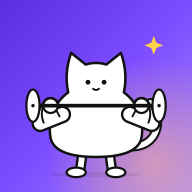
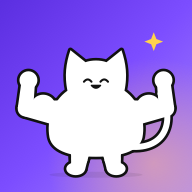
Buddy: one merged silhouette with chunky tapered limbs; per-exercise facial expressions

Changed region(s): [[0.0625, 0.25, 0.9375, 0.9375], [0.75, 0.1562, 0.8438, 0.2812], [0.4375, 0.4062, 0.5625, 0.4688]]

diff --git a/art.js b/art.js
@@ -107,110 +107,129 @@
      m = muscle power (this week's lifts / goal), j = leg power (this week's jog minutes / goal); 0 … 1 … 1.25.
      Arms thicken + biceps bulge with m; legs, sneakers, headband, sweat and speed lines grow with j; gold adds a crown. */
   const clamp = (v) => Math.max(0, Math.min(1.25, v || 0));
-  const bStyle = (m, j) => { const k = clamp(m), q = clamp(j); return { w: 11 + k * 11, b: 0.15 + k * 1.05, f: 0.8 + k * 0.35, k, lw: 8 + q * 7, sn: 0.7 + q * 0.45, q }; };
+  const bStyle = (m, j) => { const k = clamp(m), q = clamp(j); return { k, q }; };
   // Animated poses. Each pose loops between frame A and frame B (SMIL, so it runs on iOS too).
-  // Arms: [shoulder, elbow, hand]; legs: [hip, knee, foot]; dy = how far the body moves down in frame B.
-  const STAND = { l: [[92, 176], [90, 192], [88, 206]], r: [[128, 176], [130, 192], [132, 206]] };
+  // Arms: [shoulder, elbow, paw]; legs: [hip, knee, foot]; dy = how far the body moves in frame B.
+  const STAND = { l: [[90, 170], [88, 188], [86, 202]], r: [[130, 170], [132, 188], [134, 202]] };
   const FR = (a, b = a) => [a, b];
   const mirror = (a) => a.map(([x, y]) => [220 - x, y]);
   const POSES = {
-    nap: { dur: 3.4, l: FR([[62, 134], [50, 156], [80, 160]]), r: 'mirror' },
-    press: { dur: 1.9, bar: true, l: FR([[64, 128], [34, 140], [48, 116]], [[64, 124], [40, 86], [46, 40]]), r: 'mirror' },
-    curl: { dur: 1.5, db: true, l: FR([[62, 126], [50, 152], [52, 178]], [[62, 126], [50, 152], [64, 124]]), r: 'mirror' },
-    squat: { dur: 2.1, bar: true, behind: true, dy: 16, l: FR([[64, 122], [32, 112], [40, 92]]), r: 'mirror',
-      legs: { l: FR(STAND.l, [[92, 192], [62, 196], [84, 206]]), r: FR(STAND.r, [[128, 192], [158, 196], [136, 206]]) } },
-    flex: { dur: 1.2, l: FR([[62, 130], [14, 124], [18, 86]], [[62, 128], [10, 116], [24, 80]]), r: 'mirror' },
-    victory: { dur: 0.9, l: FR([[66, 118], [40, 86], [28, 54]], [[66, 118], [44, 82], [38, 48]]), r: 'mirror' },
-    wave: { dur: 0.8, l: FR([[62, 130], [14, 124], [18, 86]]), r: FR([[158, 122], [190, 104], [198, 70]], [[158, 122], [192, 100], [214, 76]]) },
-    run: { dur: 0.6, run: 1, dy: -6, l: FR([[64, 128], [40, 146], [28, 124]], [[64, 128], [46, 156], [30, 164]]), r: FR([[156, 128], [176, 156], [190, 164]], [[156, 128], [180, 146], [192, 124]]),
-      legs: { l: FR([[96, 176], [80, 192], [68, 204]], [[96, 170], [106, 190], [116, 204]]), r: FR([[124, 176], [136, 192], [148, 204]], [[124, 170], [114, 190], [104, 204]]) } },
-    jumprope: { dur: 0.8, rope: true, dy: -20, l: FR([[64, 130], [46, 150], [36, 150]]), r: 'mirror',
-      legs: { l: FR(STAND.l, [[92, 156], [84, 172], [92, 186]]), r: FR(STAND.r, [[128, 156], [136, 172], [128, 186]]) } },
+    nap: { dur: 3.4, l: FR([[62, 136], [50, 158], [52, 176]]), r: 'mirror' },
+    press: { dur: 1.9, bar: true, l: FR([[62, 126], [30, 140], [40, 112]], [[64, 120], [38, 84], [44, 40]]), r: 'mirror' },
+    curl: { dur: 1.5, db: true, l: FR([[62, 128], [40, 154], [38, 180]], [[62, 128], [36, 152], [40, 120]]), r: 'mirror' },
+    squat: { dur: 2.1, bar: true, behind: true, dy: 16, l: FR([[62, 120], [30, 112], [38, 90]]), r: 'mirror',
+      legs: { l: FR(STAND.l, [[90, 186], [64, 192], [82, 202]]), r: FR(STAND.r, [[130, 186], [156, 192], [138, 202]]) } },
+    flex: { dur: 1.2, l: FR([[62, 128], [16, 122], [20, 84]], [[62, 126], [12, 114], [26, 78]]), r: 'mirror' },
+    victory: { dur: 0.9, l: FR([[66, 116], [40, 84], [30, 50]], [[66, 116], [44, 80], [40, 46]]), r: 'mirror' },
+    wave: { dur: 0.8, l: FR([[62, 132], [40, 156], [40, 178]]), r: FR([[158, 120], [190, 102], [198, 66]], [[158, 120], [192, 98], [214, 72]]) },
+    run: { dur: 0.6, run: 1, dy: -6, l: FR([[62, 128], [36, 144], [28, 122]], [[62, 128], [42, 156], [30, 168]]), r: FR([[158, 128], [178, 156], [190, 168]], [[158, 128], [184, 144], [192, 122]]),
+      legs: { l: FR([[96, 170], [80, 188], [68, 200]], [[96, 166], [106, 186], [116, 200]]), r: FR([[124, 170], [136, 188], [150, 200]], [[124, 166], [114, 186], [104, 200]]) } },
+    jumprope: { dur: 0.8, rope: true, dy: -20, l: FR([[62, 132], [40, 150], [32, 150]]), r: 'mirror',
+      legs: { l: FR(STAND.l, [[90, 150], [84, 166], [90, 180]]), r: FR(STAND.r, [[130, 150], [136, 166], [130, 180]]) } },
   };
   A.POSES = Object.keys(POSES);
-  const pt = (p) => `${p[0]} ${p[1]}`;
+  const pt = (p) => `${p[0].toFixed(1)} ${p[1].toFixed(1)}`;
   const SPL = 'keyTimes="0;.5;1" calcMode="spline" keySplines=".45 0 .55 1;.45 0 .55 1" repeatCount="indefinite"';
   const still = typeof matchMedia === 'function' && matchMedia('(prefers-reduced-motion: reduce)').matches;
   /** <animate> between two values (nothing if they match or motion is reduced). */
   const anim = (attr, a, b, dur) => (still || a === b ? '' : `<animate attributeName="${attr}" values="${a};${b};${a}" dur="${dur}s" ${SPL}/>`);
   const animT = (type, a, b, dur) => (still || a === b ? '' : `<animateTransform attributeName="transform" type="${type}" values="${a};${b};${a}" dur="${dur}s" ${SPL}/>`);
-  const bic = ([S, E, H]) => {
+  /** Tapered limb segment a→b (width wa → wb) as a closed quad. */
+  const seg = (a, b, wa, wb) => {
+    const dx = b[0] - a[0], dy = b[1] - a[1], l = Math.hypot(dx, dy) || 1, nx = -dy / l, ny = dx / l;
+    return `M${pt([a[0] + nx * wa / 2, a[1] + ny * wa / 2])} L${pt([b[0] + nx * wb / 2, b[1] + ny * wb / 2])} L${pt([b[0] - nx * wb / 2, b[1] - ny * wb / 2])} L${pt([a[0] - nx * wa / 2, a[1] - ny * wa / 2])} Z`;
+  };
+  /** Bicep bulge on the upper arm, on the inside of the elbow bend (or upward when the arm is straight). */
+  const bic = ([S, E, H], wS, wE) => {
     const mx = (S[0] + E[0]) / 2, my = (S[1] + E[1]) / 2, len = Math.hypot(E[0] - S[0], E[1] - S[1]);
     let ang = (Math.atan2(E[1] - S[1], E[0] - S[0]) * 180) / Math.PI;
     const cross = (E[0] - S[0]) * (H[1] - S[1]) - (E[1] - S[1]) * (H[0] - S[0]);
     const up = Math.abs(cross) < 200 ? (Math.cos((ang * Math.PI) / 180) >= 0 ? 1 : -1) : -Math.sign(cross);
     if (up < 0) ang += 180;
-    return { mx, my, ang, hl: len * 0.36 };
+    return { mx, my, ang, rx: len * 0.34, off: (wS + wE) / 4 * 0.55 };
   };
   A.buddy = ({ m = 0, j = 0, gold = false, size = 160, pose = 'flex' } = {}) => {
     const st = bStyle(m, j), k = st.k, q = st.q, P0 = POSES[pose] || POSES.flex, D = P0.dur;
     const arms = { l: P0.l, r: P0.r === 'mirror' ? P0.l.map(mirror) : P0.r };
     const legs = P0.legs || { l: FR(STAND.l), r: FR(STAND.r) };
-    const d3 = (f) => `M${pt(f[0])} L${pt(f[1])} L${pt(f[2])}`;
-    const arm = (side, [A0, B0]) => {
-      const a = bic(A0), b = bic(B0);
+    // chunky, tapered limbs: thicker with muscle (arms) and leg power (legs)
+    const wS = 26 + k * 12, wE = 17 + k * 5, wH = 15 + k * 4, pr = wH / 2 + 3;
+    const wHip = 30 + q * 6, wKn = 22 + q * 5, wFt = 19 + q * 4;
+    const by = 2 + k * 11; // bicep bulge height
+    // every limb as a list of shapes; drawn twice (outline layer, then white fill layer) so they merge into one silhouette
+    const armShapes = ([A0, B0]) => {
+      const a = bic(A0, wS, wE), b = bic(B0, wS, wE);
       let bAng = b.ang; while (bAng - a.ang > 180) bAng -= 360; while (a.ang - bAng > 180) bAng += 360;
-      const R = 21, hl = a.hl;
-      const path = (cls, stroke, w) => `<path class="${cls}" d="${d3(A0)}" stroke="${stroke}" style="stroke-width:${w}px" fill="none" stroke-linecap="round" stroke-linejoin="round">${anim('d', d3(A0), d3(B0), D)}</path>`;
-      return `<g class="bd-armg ${side}">${path('bd-arm o', OUT, st.w + 6.5)}${path('bd-arm', '#fff', st.w)}
-        <g transform="translate(${a.mx} ${a.my})">${animT('translate', `${a.mx} ${a.my}`, `${b.mx} ${b.my}`, D)}<g transform="rotate(${a.ang.toFixed(1)})">${animT('rotate', a.ang.toFixed(1), bAng.toFixed(1), D)}
-          <g class="bd-bi" style="transform:scale(${st.b})"><path d="M${-hl} 1 A${hl} ${R} 0 0 1 ${hl} 1 Z" fill="#fff"/><path d="M${-hl} 1 A${hl} ${R} 0 0 1 ${hl} 1" stroke="${OUT}" stroke-width="2.6" fill="none" stroke-linecap="round"/></g></g></g>
-        <circle class="bd-fist" cx="${A0[2][0]}" cy="${A0[2][1]}" r="10" fill="#fff" stroke="${OUT}" stroke-width="3" style="transform:scale(${st.f})">${anim('cx', A0[2][0], B0[2][0], D)}${anim('cy', A0[2][1], B0[2][1], D)}</circle>
-      </g>`;
+      return (attrs) => `<path d="${seg(A0[0], A0[1], wS, wE)}" ${attrs}>${anim('d', seg(A0[0], A0[1], wS, wE), seg(B0[0], B0[1], wS, wE), D)}</path>
+        <path d="${seg(A0[1], A0[2], wE, wH)}" ${attrs}>${anim('d', seg(A0[1], A0[2], wE, wH), seg(B0[1], B0[2], wE, wH), D)}</path>
+        <circle cx="${A0[1][0]}" cy="${A0[1][1]}" r="${wE / 2}" ${attrs}>${anim('cx', A0[1][0], B0[1][0], D)}${anim('cy', A0[1][1], B0[1][1], D)}</circle>
+        <circle cx="${A0[2][0]}" cy="${A0[2][1]}" r="${pr}" ${attrs}>${anim('cx', A0[2][0], B0[2][0], D)}${anim('cy', A0[2][1], B0[2][1], D)}</circle>
+        <g transform="translate(${a.mx.toFixed(1)} ${a.my.toFixed(1)})">${animT('translate', `${a.mx.toFixed(1)} ${a.my.toFixed(1)}`, `${b.mx.toFixed(1)} ${b.my.toFixed(1)}`, D)}<g transform="rotate(${a.ang.toFixed(1)})">${animT('rotate', a.ang.toFixed(1), bAng.toFixed(1), D)}
+          <ellipse cx="0" cy="${(-a.off).toFixed(1)}" rx="${a.rx.toFixed(1)}" ry="${(a.off * 0.6 + by).toFixed(1)}" ${attrs}/></g></g>`;
     };
-    const leg = ([A0, B0], dir) => `<g class="bd-leg">
-        <path class="bd-lg o" d="${d3(A0)}" stroke="${OUT}" style="stroke-width:${st.lw + 6.5}px" stroke-linecap="round" stroke-linejoin="round" fill="none">${anim('d', d3(A0), d3(B0), D)}</path>
-        <path class="bd-lg" d="${d3(A0)}" stroke="#fff" style="stroke-width:${st.lw}px" stroke-linecap="round" stroke-linejoin="round" fill="none">${anim('d', d3(A0), d3(B0), D)}</path>
-        <g class="bd-shoe" style="transform:scale(${st.sn});opacity:${q > 0 ? 1 : 0}"><ellipse cx="${A0[2][0] + dir * 5}" cy="${A0[2][1] + 1}" rx="13" ry="6.5" fill="#fff" stroke="${OUT}" stroke-width="3">${anim('cx', A0[2][0] + dir * 5, B0[2][0] + dir * 5, D)}${anim('cy', A0[2][1] + 1, B0[2][1] + 1, D)}</ellipse>
-          <path class="bd-wing" d="M0 0 q${-dir * 14} -12 ${-dir * 20} -4 q${dir * 6} 2 ${dir * 4} 6 q${-dir * 8} 0 ${-dir * 12} 4 q${dir * 10} 4 ${dir * 16} 0z" transform="translate(${A0[2][0] - dir * 8} ${A0[2][1] - 2})" fill="#fff" stroke="${OUT}" stroke-width="2" style="opacity:${q >= 1 ? 1 : 0}">${animT('translate', `${A0[2][0] - dir * 8} ${A0[2][1] - 2}`, `${B0[2][0] - dir * 8} ${B0[2][1] - 2}`, D)}</path></g></g>`;
+    const legShapes = ([A0, B0], dir) => (attrs) => `<path d="${seg(A0[0], A0[1], wHip, wKn)}" ${attrs}>${anim('d', seg(A0[0], A0[1], wHip, wKn), seg(B0[0], B0[1], wHip, wKn), D)}</path>
+        <path d="${seg(A0[1], A0[2], wKn, wFt)}" ${attrs}>${anim('d', seg(A0[1], A0[2], wKn, wFt), seg(B0[1], B0[2], wKn, wFt), D)}</path>
+        <circle cx="${A0[1][0]}" cy="${A0[1][1]}" r="${wKn / 2}" ${attrs}>${anim('cx', A0[1][0], B0[1][0], D)}${anim('cy', A0[1][1], B0[1][1], D)}</circle>
+        <ellipse cx="${A0[2][0] + dir * 3}" cy="${A0[2][1]}" rx="${wFt / 2 + 3}" ry="${wFt / 2 - 1}" ${attrs}>${anim('cx', A0[2][0] + dir * 3, B0[2][0] + dir * 3, D)}${anim('cy', A0[2][1], B0[2][1], D)}</ellipse>`;
+    const TAIL = 'M150 172 C204 180 216 136 196 102';
     const run = P0.run || 0, dy = P0.dy || 0;
-    const speed = run ? `<g class="bd-speed">${[0, 1, 2].map((i) => `<path d="M${8 - i * 4} ${104 + i * 16} h26" stroke="${INK}" stroke-width="4" stroke-linecap="round" style="opacity:${q > i * 0.4 ? 1 : 0}"/>`).join('')}</g>` : '';
+    const body = (attrs, tailW, tailC) => `<path d="${TAIL}" stroke="${tailC}" stroke-width="${tailW}" fill="none" stroke-linecap="round"/>${armShapes(arms.l)(attrs)}${armShapes(arms.r)(attrs)}<path d="${BODY}" ${attrs}/>`;
+    const OUTL = `fill="${OUT}" stroke="${OUT}" stroke-width="7" stroke-linejoin="round"`, FILL = 'fill="#fff"';
+    const legsL = legShapes(legs.l, -1), legsR = legShapes(legs.r, 1);
+    const moveBody = animT('translate', '0 0', `0 ${dy}`, D);
+    const speed = run ? `<g class="bd-speed">${[0, 1, 2].map((i) => `<path d="M${6 - i * 4} ${104 + i * 16} h24" stroke="${INK}" stroke-width="4" stroke-linecap="round" style="opacity:${q > i * 0.4 ? 1 : 0}"/>`).join('')}</g>` : '';
     const happy = Math.max(k, q) >= 1, asleep = Math.max(k, q) <= 0;
-    const mouth = `<g class="bd-grin" style="opacity:${happy ? 1 : 0}"><path d="M105 92 q5 5 10 0 z" fill="${INK}" stroke="${INK}" stroke-width="2" stroke-linejoin="round"/></g>
-      <path class="bd-smile" d="M106 93 q4 3 8 0" stroke="${INK}" stroke-width="2.6" fill="none" stroke-linecap="round" style="opacity:${happy ? 0 : 1}"/>`;
-    const band = `<g class="bd-band" style="opacity:${q > 0 ? 1 : 0}"><g clip-path="url(#bd-clip)"><rect x="40" y="66" width="140" height="9" fill="${INK}"/></g><path d="M148 70 l16 -6 M148 72 l15 6" stroke="${INK}" stroke-width="5" stroke-linecap="round"/></g>
-      <path class="bd-sweat" d="M150 84 q4 7 0 10 q-4 -3 0 -10z" fill="#fff" stroke="${INK}" stroke-width="1.8" style="opacity:${q >= 0.5 ? 1 : 0}"/>`;
-    const crown = gold ? `<path d="M88 70 l-3 -22 14 12 11 -18 11 18 14 -12 -3 22 z" fill="#fff" stroke="${OUT}" stroke-width="3" stroke-linejoin="round" transform="translate(0 -14)"/>` : '';
-    // equipment that follows the hands
+    // expressions (from the reference sheets): calm dots, determined brows, "> <" strain, "^ ^" happy, puffing "o", asleep "- -"
+    const FACES = {
+      dot: `<circle cx="99" cy="84" r="3.3" fill="${INK}"/><circle cx="121" cy="84" r="3.3" fill="${INK}"/><path d="M106 93 q4 3 8 0" stroke="${INK}" stroke-width="2.6" fill="none" stroke-linecap="round"/>`,
+      focus: `<circle cx="99" cy="85" r="3.3" fill="${INK}"/><circle cx="121" cy="85" r="3.3" fill="${INK}"/><path d="M92 76 l10 4 M128 76 l-10 4" stroke="${INK}" stroke-width="2.8" stroke-linecap="round"/><path d="M106 94 h8" stroke="${INK}" stroke-width="2.6" stroke-linecap="round"/>`,
+      strain: `<path d="M94 80 l7 4 -7 4 M126 80 l-7 4 7 4" stroke="${INK}" stroke-width="2.8" fill="none" stroke-linecap="round" stroke-linejoin="round"/><path d="M103 91 h14 v5 q-7 4 -14 0 z" fill="#fff" stroke="${INK}" stroke-width="2.4" stroke-linejoin="round"/><path d="M103 93.5 h14" stroke="${INK}" stroke-width="1.6"/><path d="M84 74 q-3 5 0 7 q3 -2 0 -7z" fill="#fff" stroke="${INK}" stroke-width="1.6"/>`,
+      happy: `<path d="M94 86 q5 -6 10 0 M116 86 q5 -6 10 0" stroke="${INK}" stroke-width="2.8" fill="none" stroke-linecap="round"/><path d="M104 91 q6 7 12 0 z" fill="${INK}" stroke="${INK}" stroke-width="2" stroke-linejoin="round"/>`,
+      puff: `<circle cx="99" cy="84" r="3.3" fill="${INK}"/><circle cx="121" cy="84" r="3.3" fill="${INK}"/><ellipse cx="110" cy="94" rx="3.2" ry="3.8" fill="${INK}"/>`,
+      sleep: `<path d="M94 85 h8 M118 85 h8" stroke="${INK}" stroke-width="2.8" stroke-linecap="round"/><path d="M107 93 q3 2 6 0" stroke="${INK}" stroke-width="2.4" fill="none" stroke-linecap="round"/>`,
+    };
+    const MOODS = { nap: ['sleep', 'sleep'], press: ['focus', 'strain'], curl: ['dot', 'strain'], squat: ['focus', 'strain'], flex: ['happy', 'strain'],
+      victory: ['happy', 'happy'], wave: ['happy', 'dot'], run: ['puff', 'focus'], jumprope: ['puff', 'happy'] };
+    const [fa, fb] = asleep ? ['sleep', 'sleep'] : MOODS[pose] || ['dot', 'dot'];
+    const swap = (vals) => (still ? '' : `<animate attributeName="opacity" values="${vals}" keyTimes="0;.25;.75" dur="${D}s" calcMode="discrete" repeatCount="indefinite"/>`);
+    const face = fa === fb ? `<g class="bd-eyes">${FACES[fa]}</g>`
+      : `<g class="bd-eyes">${FACES[fa]}${swap('1;0;1')}</g><g opacity="${still ? 0 : 0}">${FACES[fb]}${swap('0;1;0')}</g>`;
+    const band = q > 0 ? `<g clip-path="url(#bd-clip)"><rect x="40" y="66" width="140" height="9" fill="${INK}"/></g><path d="M148 70 l16 -6 M148 72 l15 6" stroke="${INK}" stroke-width="5" stroke-linecap="round"/>
+      ${q >= 0.5 ? `<path d="M150 84 q4 7 0 10 q-4 -3 0 -10z" fill="#fff" stroke="${INK}" stroke-width="1.8"/>` : ''}` : '';
+    const crown = gold ? `<path d="M88 56 l-3 -22 14 12 11 -18 11 18 14 -12 -3 22 z" fill="#fff" stroke="${OUT}" stroke-width="3" stroke-linejoin="round"/>` : '';
+    // sneakers once you've jogged; wings at the jogging goal
+    const shoe = ([A0, B0], dir) => (q > 0 ? `<g><path d="M-14 2 q0 -10 12 -10 q14 0 16 10 z" fill="#fff" stroke="${OUT}" stroke-width="3" stroke-linejoin="round" transform="scale(${dir < 0 ? -1 : 1} 1)"/>
+        ${q >= 1 ? `<path d="M${-dir * 10} -6 q${-dir * 14} -12 ${-dir * 20} -4 q${dir * 6} 2 ${dir * 4} 6 q${-dir * 8} 0 ${-dir * 12} 4 q${dir * 10} 4 ${dir * 16} 0z" fill="#fff" stroke="${OUT}" stroke-width="2"/>` : ''}
+        <animateTransform attributeName="transform" type="translate" values="${pt(A0[2])};${pt(B0[2])};${pt(A0[2])}" dur="${D}s" ${SPL}/></g>`.replace('<g>', `<g transform="translate(${pt(A0[2])})">`) : '');
+    // equipment that follows the paws
     const hA = [arms.l[0][2], arms.r[0][2]], hB = [arms.l[1][2], arms.r[1][2]];
     const plate = (x, y) => `<ellipse cx="${x}" cy="${y}" rx="9" ry="22" fill="#fff" stroke="${INK}" stroke-width="3"/><circle cx="${x}" cy="${y}" r="2.4" fill="${INK}"/>`;
-    const bar = P0.bar ? `<g>${animT('translate', '0 0', `0 ${hB[0][1] - hA[0][1]}`, D)}<path d="M${hA[0][0] - 16} ${hA[0][1]} H${hA[1][0] + 16}" stroke="${INK}" stroke-width="5" stroke-linecap="round"/>${plate(hA[0][0] - 24, hA[0][1])}${plate(hA[1][0] + 24, hA[1][1])}</g>` : '';
-    const db = P0.db ? [0, 1].map((i) => `<g transform="translate(${pt(hA[i])})">${animT('translate', pt(hA[i]), pt(hB[i]), D)}<path d="M-14 0 h28" stroke="${INK}" stroke-width="4" stroke-linecap="round"/><rect x="-20" y="-9" width="8" height="18" rx="3" fill="#fff" stroke="${INK}" stroke-width="2.6"/><rect x="12" y="-9" width="8" height="18" rx="3" fill="#fff" stroke="${INK}" stroke-width="2.6"/></g>`).join('') : '';
-    const rope = P0.rope ? `<path d="M36 150 Q110 -80 184 150" stroke="${INK}" stroke-width="2.6" fill="none">${anim('d', 'M36 150 Q110 -80 184 150', 'M36 150 Q110 268 184 150', D)}</path>` : '';
-    const wave = pose === 'wave' ? `<path d="M206 52 q6 4 4 12 M214 46 q7 6 4 16" stroke="${INK}" stroke-width="3" fill="none" stroke-linecap="round"/>` : '';
-    return `<svg class="buddy pose-${pose}" width="${size}" height="${size}" viewBox="0 -6 220 220" aria-hidden="true">
+    const bar = P0.bar ? `<g>${animT('translate', '0 0', `0 ${hB[0][1] - hA[0][1]}`, D)}<path d="M${hA[0][0] - 18} ${hA[0][1]} H${hA[1][0] + 18}" stroke="${INK}" stroke-width="5" stroke-linecap="round"/>${plate(hA[0][0] - 26, hA[0][1])}${plate(hA[1][0] + 26, hA[1][1])}</g>` : '';
+    const db = P0.db ? [0, 1].map((i) => `<g transform="translate(${pt(hA[i])})">${animT('translate', pt(hA[i]), pt(hB[i]), D)}<path d="M-15 0 h30" stroke="${INK}" stroke-width="4" stroke-linecap="round"/><rect x="-22" y="-10" width="9" height="20" rx="3" fill="#fff" stroke="${INK}" stroke-width="2.6"/><rect x="13" y="-10" width="9" height="20" rx="3" fill="#fff" stroke="${INK}" stroke-width="2.6"/></g>`).join('') : '';
+    const rope = P0.rope ? `<path d="M32 150 Q110 -80 188 150" stroke="${INK}" stroke-width="2.6" fill="none">${anim('d', 'M32 150 Q110 -80 188 150', 'M32 150 Q110 268 188 150', D)}</path>` : '';
+    const wave = pose === 'wave' ? `<path d="M206 48 q6 4 4 12 M214 42 q7 6 4 16" stroke="${INK}" stroke-width="3" fill="none" stroke-linecap="round"/>` : '';
+    return `<svg class="buddy pose-${pose}" data-pose="${pose}" data-gold="${gold ? 1 : ''}" width="${size}" height="${size}" viewBox="0 -6 220 220" aria-hidden="true">
       <defs><clipPath id="bd-clip"><path d="${BODY}"/></clipPath></defs>
       <ellipse class="bd-shadow" cx="110" cy="210" rx="62" ry="4" fill="${INK}" opacity=".08"/>
       ${speed}
-      <g class="bd-zzz" style="opacity:${asleep ? 1 : 0}"><path d="M156 44 h11 l-11 11 h11 M174 24 h8 l-8 8 h8 M188 8 h6 l-6 6 h6" stroke="${INK}" stroke-width="3" fill="none" stroke-linecap="round" stroke-linejoin="round"/></g>
+      <g class="bd-zzz" style="opacity:${asleep ? 1 : 0}"><path d="M156 30 h11 l-11 11 h11 M174 12 h8 l-8 8 h8 M188 -2 h6 l-6 6 h6" stroke="${INK}" stroke-width="3" fill="none" stroke-linecap="round" stroke-linejoin="round"/></g>
       ${rope}
-      <g class="bd-all">${leg(legs.l, -1)}${leg(legs.r, 1)}
-        <g>${animT('translate', '0 0', `0 ${dy}`, D)}
-        ${P0.behind ? bar : ''}
-        <g class="bd-tail"><path d="M158 172 C196 172 202 132 184 112" stroke="${OUT}" stroke-width="13" fill="none" stroke-linecap="round"/><path d="M158 172 C196 172 202 132 184 112" stroke="#fff" stroke-width="7.5" fill="none" stroke-linecap="round"/></g>
-        <path d="${BODY}" fill="#fff" stroke="${OUT}" stroke-width="3.4" stroke-linejoin="round"/>
-        ${band}${crown}
-        <g class="bd-awake" style="opacity:${!asleep && !happy ? 1 : 0}"><g class="bd-eyes"><circle cx="99" cy="84" r="3.3" fill="${INK}"/><circle cx="121" cy="84" r="3.3" fill="${INK}"/></g></g>
-        <g class="bd-strain" style="opacity:${happy ? 1 : 0}"><path d="M94 80 l7 4 -7 4 M126 80 l-7 4 7 4" stroke="${INK}" stroke-width="2.8" fill="none" stroke-linecap="round" stroke-linejoin="round"/></g>
-        <g class="bd-sleep" style="opacity:${asleep ? 1 : 0}"><path d="M94 85 h8 M118 85 h8" stroke="${INK}" stroke-width="2.8" stroke-linecap="round"/></g>
-        ${mouth}${arm('l', arms.l)}${arm('r', arms.r)}${P0.behind ? '' : bar}${db}${wave}
-      </g></g></svg>`;
+      <g class="bd-all">
+        ${P0.behind ? `<g>${moveBody}${bar}</g>` : ''}
+        ${legsL(OUTL)}${legsR(OUTL)}<g>${moveBody}${body(OUTL, 15, OUT)}</g>
+        ${legsL(FILL)}${legsR(FILL)}<g>${moveBody}${body(FILL, 8, '#fff')}</g>
+        ${shoe(legs.l, -1)}${shoe(legs.r, 1)}
+        <g>${moveBody}${band}${crown}${face}${P0.behind ? '' : bar}${db}${wave}</g>
+      </g></svg>`;
   };
   const BODY = catD(110, 120, 2.5);
-  /** Animate an existing Buddy to new muscle / leg power (CSS transitions do the swelling). */
+  /** Swap Buddy for a new muscle / leg power and give it a little "pump" bounce. */
   A.buddySet = (el, m, j) => {
-    if (!el) return; const st = bStyle(m, j);
-    const each = (sel, f) => el.querySelectorAll(sel).forEach(f);
-    each('.bd-arm', (p) => { p.style.strokeWidth = `${p.classList.contains('o') ? st.w + 6.5 : st.w}px`; });
-    each('.bd-bi', (p) => { p.style.transform = `scale(${st.b})`; });
-    each('.bd-fist', (p) => { p.style.transform = `scale(${st.f})`; });
-    each('.bd-lg', (p) => { p.style.strokeWidth = `${p.classList.contains('o') ? st.lw + 6.5 : st.lw}px`; });
-    each('.bd-shoe', (p) => { p.style.transform = `scale(${st.sn})`; });
-    each('.bd-wing', (p) => { p.style.opacity = st.q >= 1 ? 1 : 0; });
-    each('.bd-speed path', (p, i) => { p.style.opacity = st.q > i * 0.4 ? 1 : 0; });
-    const op = (sel, on) => each(sel, (n) => { n.style.opacity = on ? 1 : 0; });
-    const hi = Math.max(st.k, st.q);
-    op('.bd-awake', hi > 0 && hi < 1); op('.bd-strain', hi >= 1); op('.bd-sleep', hi <= 0); op('.bd-zzz', hi <= 0); op('.bd-grin', hi >= 1); op('.bd-smile', hi < 1); op('.bd-band', st.q > 0); op('.bd-sweat', st.q >= 0.5);
+    if (!el || !el.parentNode) return;
+    const wrap = document.createElement('div');
+    wrap.innerHTML = A.buddy({ m, j, gold: !!el.dataset.gold, pose: el.dataset.pose, size: +el.getAttribute('width') });
+    const nu = wrap.firstElementChild; nu.classList.add('bd-pump');
+    el.replaceWith(nu);
   };
   window.ART = A;
 }());

diff --git a/styles.css b/styles.css
@@ -1154,3 +1154,6 @@ h1 { font-weight: 800; letter-spacing: -.01em; }
 .card.quest { margin-top: 70px; background: transparent; box-shadow: none; }
 .quest .q-tiles, .quest .q-actions, .quest .q-shelf-l, .quest .shelf { background: transparent; }
 .buddy .bd-zzz path { stroke: var(--text); } .q-hero .bd-zzz path { stroke: #fff; }
+.buddy.bd-pump { animation: bd-pumpk .7s cubic-bezier(.3,1.7,.5,1); transform-origin: 50% 90%; }
+@keyframes bd-pumpk { 0% { transform: scale(.92); } 45% { transform: scale(1.12); } 100% { transform: scale(1); } }
+@media (prefers-reduced-motion: reduce) { .buddy.bd-pump { animation: none; } }

diff --git a/sw.js b/sw.js
@@ -1,5 +1,5 @@
 // Bump VERSION whenever you change any app file so devices pick up the update.
-const VERSION = 'gymlog-v42';
+const VERSION = 'gymlog-v43';
 const VENDOR = 'gymlog-vendor-1';
 const ASSETS = [
   './', './index.html', './styles.css', './app.js', './seed.js', './guides.js', './anim.js', './art.js', './manifest.webmanifest',
